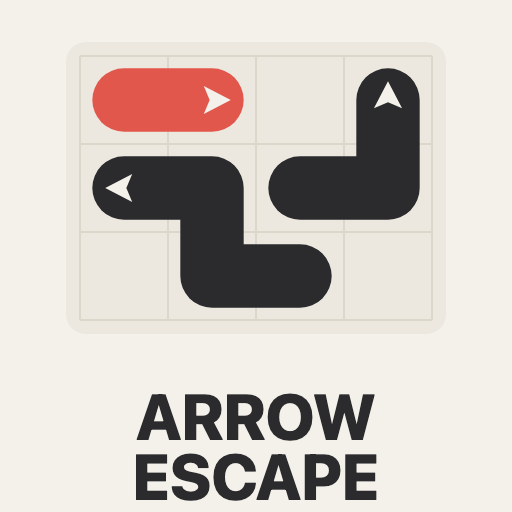
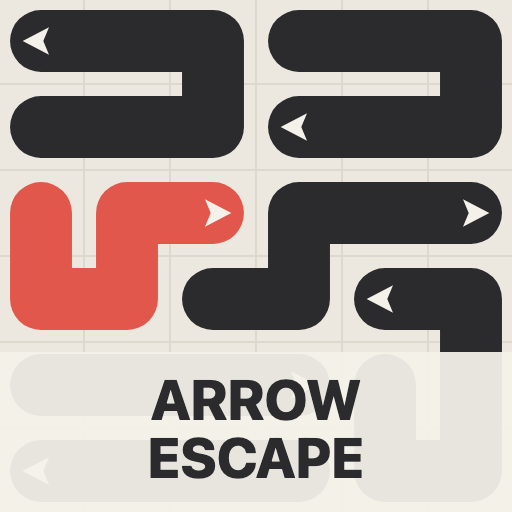
feat: tangle thumbnail — full-bleed snake density with title band (v0.1.23)

diff --git a/mockups/thumbnail.html b/mockups/thumbnail.html
@@ -9,87 +9,64 @@
 <canvas id="cv" width="512" height="512"></canvas>
 <a id="dl" download="thumbnail.png" style="color:#9cf; font-size:18px;">Download thumbnail.png</a>
 <script>
+// "The Tangle": full-bleed late-game density — snakes edge to edge, one red,
+// title on a translucent band. Same visual language as src/render.js.
 const cv = document.getElementById('cv');
 const c = cv.getContext('2d');
 
-function roundRect(x, y, w, h, r) {
-  c.beginPath();
-  c.moveTo(x + r, y);
-  c.arcTo(x + w, y, x + w, y + h, r);
-  c.arcTo(x + w, y + h, x, y + h, r);
-  c.arcTo(x, y + h, x, y, r);
-  c.arcTo(x, y, x + w, y, r);
-  c.closePath();
-}
+const BOARD = '#ece8df', GRID = '#dcd7cb', INK = '#2b2b2e', GLYPH = '#f4f1ea', RED = '#e2574c';
+const CS = 86, OX = -2, OY = -2; // 6x6 grid bleeding past the canvas edges
 
-// background
-c.fillStyle = '#f4f1ea';
-c.fillRect(0, 0, 512, 512);
-
-// mini board: 4x3 virtual grid of snake pieces (same visual language as render.js)
-const CELL = 88, X0 = 80, Y0 = 56, COLS = 4, ROWS = 3;
-const cx = (q) => X0 + (q + 0.5) * CELL;
-const cy = (r) => Y0 + (r + 0.5) * CELL;
-
-// subtle cell grid on a board panel
-c.fillStyle = '#ece8df';
-roundRect(X0 - 14, Y0 - 14, COLS * CELL + 28, ROWS * CELL + 28, 20);
-c.fill();
-c.strokeStyle = '#dcd7cb';
-c.lineWidth = 2;
-for (let r = 0; r <= ROWS; r++) {
-  c.beginPath();
-  c.moveTo(X0, Y0 + r * CELL);
-  c.lineTo(X0 + COLS * CELL, Y0 + r * CELL);
-  c.stroke();
-}
-for (let q = 0; q <= COLS; q++) {
-  c.beginPath();
-  c.moveTo(X0 + q * CELL, Y0);
-  c.lineTo(X0 + q * CELL, Y0 + ROWS * CELL);
-  c.stroke();
-}
-
-// snake: cells [[col,row], ...] head first, stroked tail -> head
 function snake(cells, dir, color) {
   c.lineCap = 'round';
   c.lineJoin = 'round';
-  c.lineWidth = CELL * 0.72;
+  c.lineWidth = CS * 0.72;
   c.strokeStyle = color;
   c.beginPath();
   for (let j = cells.length - 1; j >= 0; j--) {
-    const x = cx(cells[j][0]), y = cy(cells[j][1]);
+    const x = OX + (cells[j][0] + 0.5) * CS, y = OY + (cells[j][1] + 0.5) * CS;
     if (j === cells.length - 1) c.moveTo(x, y);
     else c.lineTo(x, y);
   }
-  if (cells.length === 1) c.lineTo(cx(cells[0][0]) + 0.01, cy(cells[0][1]));
   c.stroke();
-  // arrowhead glyph on the head
-  const u = CELL / 150;
+  const u = CS / 150;
   c.save();
-  c.translate(cx(cells[0][0]), cy(cells[0][1]));
+  c.translate(OX + (cells[0][0] + 0.5) * CS, OY + (cells[0][1] + 0.5) * CS);
   c.rotate(dir * Math.PI / 2);
-  c.fillStyle = '#f4f1ea';
+  c.fillStyle = GLYPH;
   c.beginPath();
-  c.moveTo(0, -32 * u);
-  c.lineTo(24 * u, 14 * u);
-  c.lineTo(0, 4 * u);
-  c.lineTo(-24 * u, 14 * u);
+  c.moveTo(0, -32 * u); c.lineTo(24 * u, 14 * u); c.lineTo(0, 4 * u); c.lineTo(-24 * u, 14 * u);
   c.closePath();
   c.fill();
   c.restore();
 }
 
-snake([[3, 0], [3, 1], [2, 1]], 0, '#2b2b2e');            // L-shaped 3-cell, up
-snake([[1, 0], [0, 0]], 1, '#e2574c');                    // straight 2-cell, right, accent
-snake([[0, 1], [1, 1], [1, 2], [2, 2]], 3, '#2b2b2e');    // S-shaped 4-cell, left
+// board surface + grid texture
+c.fillStyle = BOARD;
+c.fillRect(0, 0, 512, 512);
+c.strokeStyle = GRID;
+c.lineWidth = 1.5;
+for (let y = 0; y < 6; y++) {
+  for (let x = 0; x < 6; x++) c.strokeRect(OX + x * CS, OY + y * CS, CS, CS);
+}
 
-// title — must be readable at ~200px wide
-c.fillStyle = '#2b2b2e';
+// hand-tiled 6x6 tangle (verified: 36/36 cells, connected, no overlap)
+snake([[0,0],[1,0],[2,0],[2,1],[1,1],[0,1]], 3, INK);
+snake([[3,1],[4,1],[5,1],[5,0],[4,0],[3,0]], 3, INK);
+snake([[2,2],[1,2],[1,3],[0,3],[0,2]], 1, RED);
+snake([[5,2],[4,2],[3,2],[3,3],[2,3]], 1, INK);
+snake([[4,3],[5,3],[5,4],[5,5],[4,5],[4,4]], 3, INK);
+snake([[3,4],[2,4],[1,4],[0,4]], 1, INK);
+snake([[0,5],[1,5],[2,5],[3,5]], 3, INK);
+
+// title band — must be readable at ~200px wide
+c.fillStyle = 'rgba(244, 241, 234, 0.94)';
+c.fillRect(0, 352, 512, 160);
+c.fillStyle = INK;
 c.textAlign = 'center';
-c.font = '800 64px -apple-system, system-ui, sans-serif';
-c.fillText('ARROW', 256, 440);
-c.fillText('ESCAPE', 256, 500);
+c.font = '800 56px -apple-system, system-ui, sans-serif';
+c.fillText('ARROW', 256, 420);
+c.fillText('ESCAPE', 256, 478);
 
 document.getElementById('dl').href = cv.toDataURL('image/png');
 </script>

diff --git a/src/balance.js b/src/balance.js
@@ -1,4 +1,4 @@
-export const VERSION = 'v0.1.22';
+export const VERSION = 'v0.1.23';
 
 export const balance = {
   canvasW: 1080,
